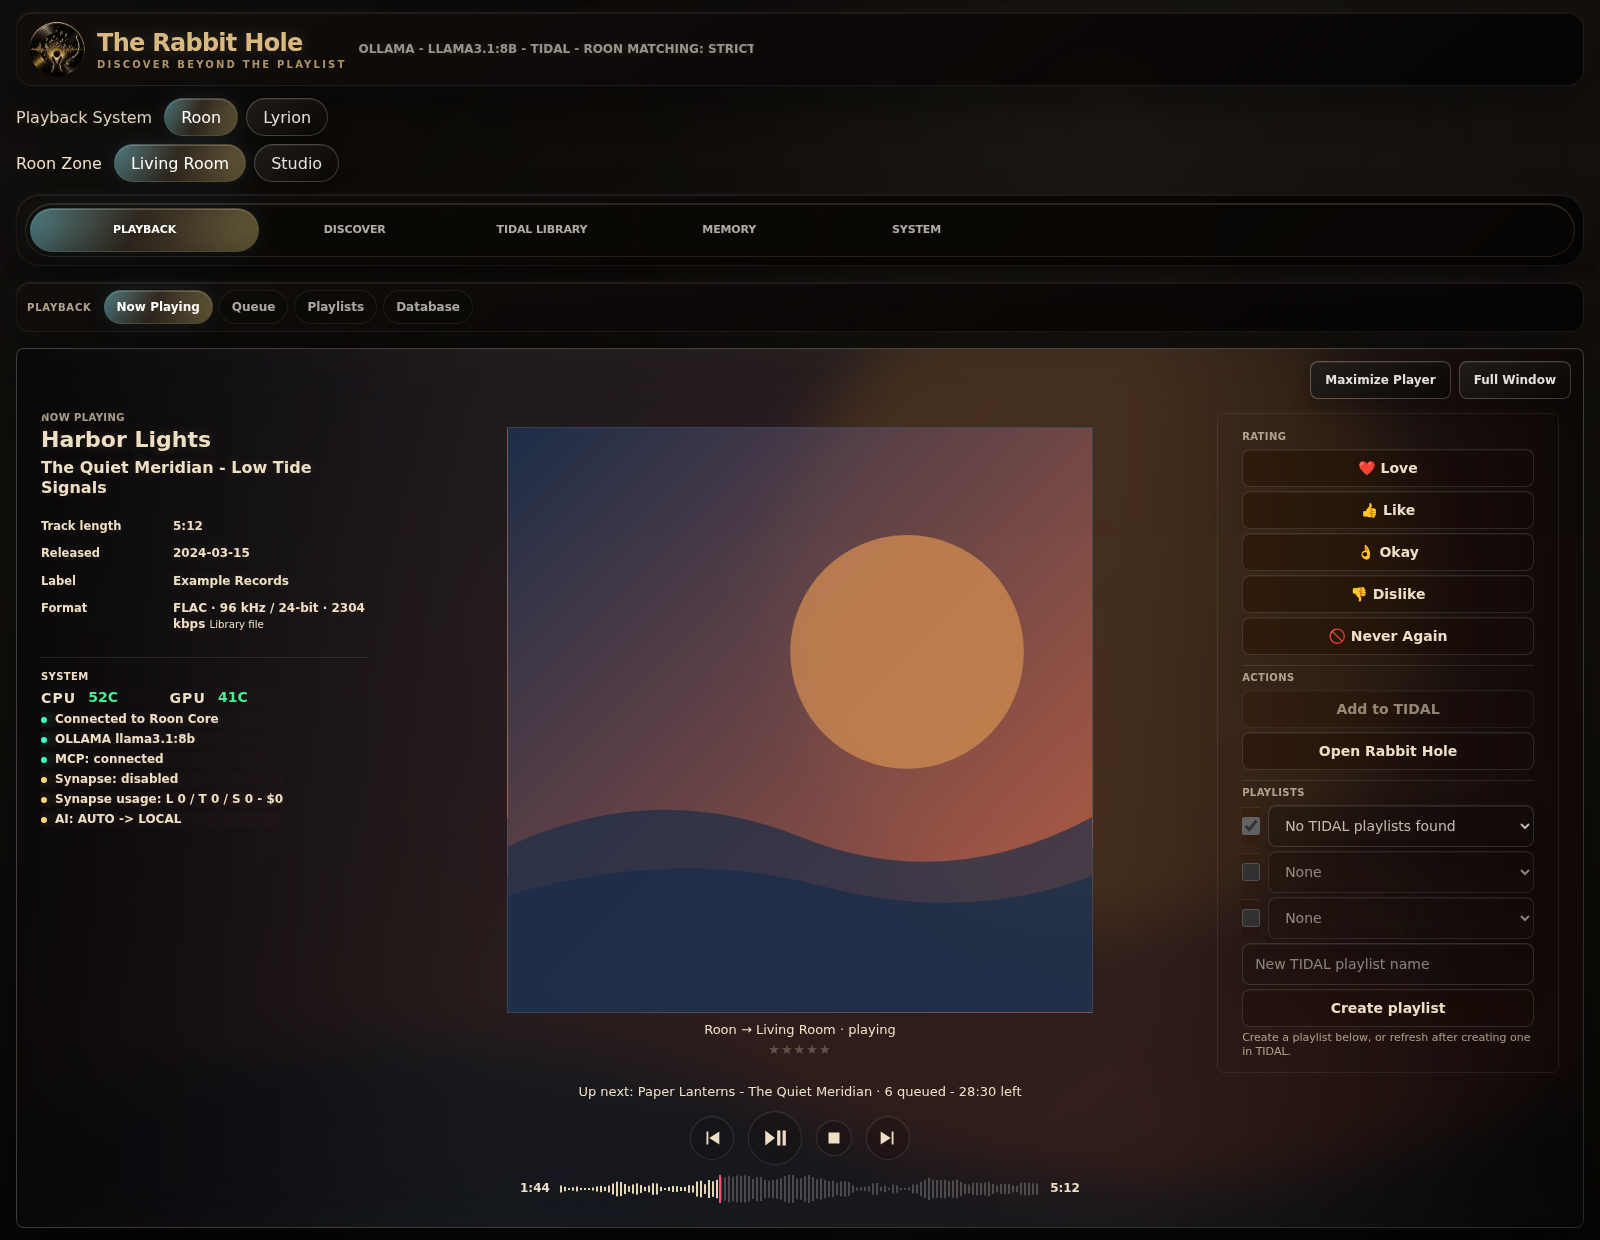
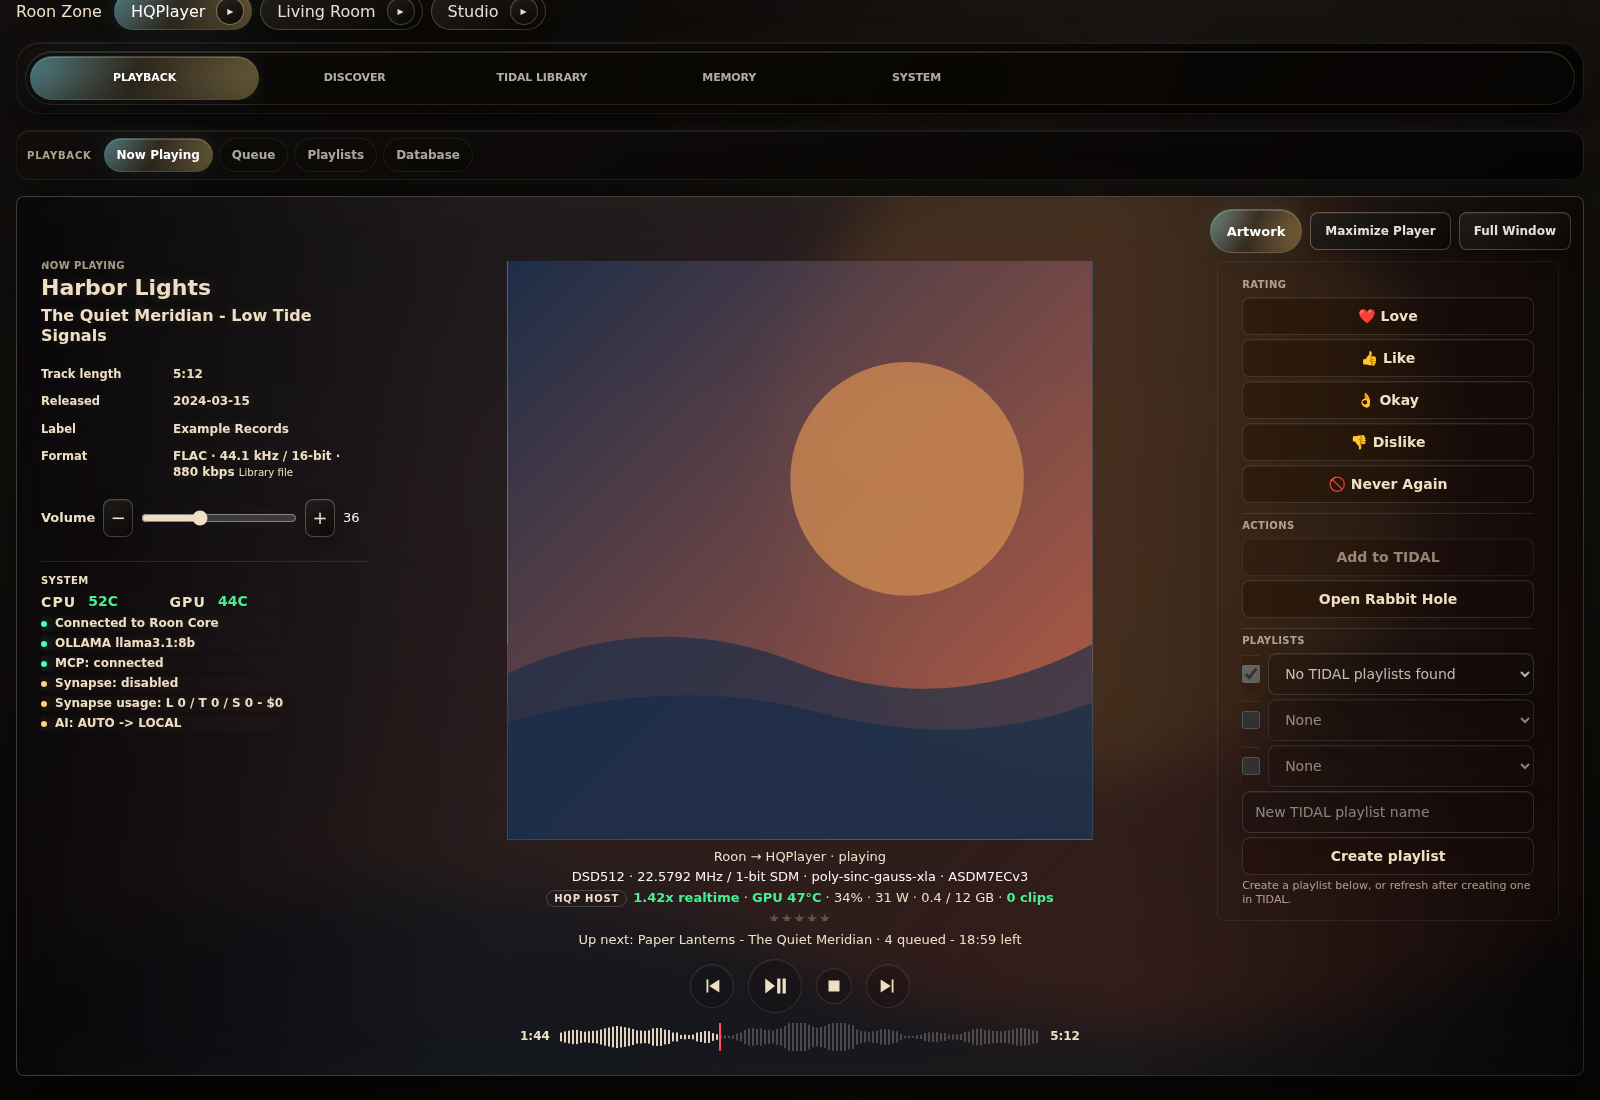
docs: add a feature tour of the fork with fake-data screenshots
docs/FEATURES.md walks through the Playback System row, Now Playing,
the transport under Up next, the HQPlayer and HQP host lines (healthy,
under load, agent unreachable), the player card, Lyrion Home and
Sources, phone layout and the seven themes. The README links it, lists
the HQP host line among the fork's changes and adds both guides.

The Roon and Lyrion Now Playing screenshots are refreshed to show the
host line. Every screenshot is rendered from made-up tracks, rooms and
documentation addresses.

diff --git a/docs/FEATURES.md b/docs/FEATURES.md
@@ -1,0 +1,151 @@
+# What this fork adds: a tour
+
+A walk through the interface changes this fork makes on top of
+[darthspaders/RoonAI](https://github.com/darthspaders/RoonAI). Every screenshot
+uses made-up tracks, rooms, players and addresses. The short list is in the
+[README](../README.md#what-this-fork-changes); the full history is in the
+commits after upstream `f0b1e81`.
+
+- [Playback System row](#playback-system-row)
+- [Now Playing](#now-playing)
+- [Transport, Up next and the seek bar](#transport-up-next-and-the-seek-bar)
+- [HQPlayer and the HQP host line](#hqplayer-and-the-hqp-host-line)
+- [Player card](#player-card)
+- [Lyrion](#lyrion)
+- [On a phone](#on-a-phone)
+- [Themes](#themes)
+- [Changes you cannot see](#changes-you-cannot-see)
+
+## Playback System row
+
+![Playback System row: Roon and Lyrion pills with a Rouen link, an HQPlayer row with Web Interface and HQPTuner links, and a Roon Zone row with one pill per zone, each with a small play button](screenshots/playback-system-row.png)
+
+- **Roon / Lyrion** switches the whole page between the two players. The choice
+  is kept in the browser.
+- **Rouen**, **Web Interface** and **HQPTuner** are links, shown only when
+  `ROUEN_URL`, `HQPLAYER_WEB_URL` or `HQPTUNER_URL` is set (the HQPlayer web
+  interface is also found from the HQPlayerBridge plugin when Lyrion is in use).
+- **Roon Zone** lists every zone as a pill instead of a drop-down. The ▸ on a
+  pill opens that zone's [player card](#player-card).
+
+## Now Playing
+
+![Roon Now Playing: track details, volume and system status on the left, album art in the centre with the playback lines, Up next, transport buttons and a waveform seek bar below it, rating and playlist tools on the right](screenshots/roon-now-playing.png)
+
+Roon and Lyrion share one three-column layout:
+
+- **Left:** track length, release date, label and the source format (for
+  example `FLAC · 44.1 kHz / 16-bit · 880 kbps`, with where it came from), a
+  volume control, and a System block with CPU and GPU temperatures and the
+  connection state of Roon or Lyrion, the language model and MCP.
+- **Centre:** the album art, the playback chain under it (`Roon → HQPlayer ·
+  playing`), rating stars, Up next, the transport and the seek bar.
+- **Right:** rating buttons, actions and playlist tools.
+
+![Left column close up: track details, the volume slider with minus and plus buttons, and the System block with CPU 52C, GPU 44C and green and amber status dots](screenshots/system-panel.png)
+
+Temperature chips and the Visualizer toggle are hidden when they cannot work,
+instead of showing empty values.
+
+## Transport, Up next and the seek bar
+
+Under the art, on both players:
+
+- **Up next** names the next track, how many are queued and the time left.
+- **Round icon buttons** for back, play/pause, stop and next.
+- **A short seek bar.** When the track is a file in the Lyrion library (on
+  either player), it is drawn as the track's waveform, read from the file with
+  FFmpeg. Click or drag to seek; the red mark is the position.
+
+## HQPlayer and the HQP host line
+
+For a Roon zone that plays through HQPlayer (`ROON_HQPLAYER_ZONES`) or the
+Lyrion HQPlayerBridge player, the line under the playback chain shows what
+HQPlayer is doing: output rate, mode, filter and modulator.
+
+If the HQPlayer machine runs the optional
+[HQP host monitor](../integrations/hqp-host-monitor/README.md) and is listed in
+`HQP_HOST_MONITORS`, an **HQP host** line follows it:
+
+![HQP host line, healthy: 1.42x realtime and GPU 47°C in green, 34%, 31 W, 0.4 / 12 GB, and 0 clips in green](screenshots/hqp-host-line.png)
+
+| Part | From | Colour |
+|------|------|--------|
+| `1.42x realtime` | HQPlayer's processing speed, shown only while playing | green from 1.1x, amber below 1.1x, red below 1.0x |
+| `GPU 47°C` | the agent | green below 80 °C, amber from 80 °C, red from 90 °C |
+| `34%`, `31 W`, `0.4 / 12 GB` | the agent: load, power, memory in use / total | |
+| `0 clips` | HQPlayer's clip counter | green at 0, red above 0 |
+
+Working hard, close to the limit:
+
+![HQP host line under load: 1.04x realtime, GPU 83°C, 71%, 96 W and 3 clips, with the realtime and temperature highlighted as warnings and the clips as a fault](screenshots/hqp-host-line-warning.png)
+
+When the agent does not answer, the line says so in grey and keeps HQPlayer's
+own numbers. A missing value is left out, never shown as 0:
+
+![HQP host line with the agent unreachable: 1.42x realtime, a grey "HQP host: no data", and 0 clips](screenshots/hqp-host-line-nodata.png)
+
+Zones and players that do not use a monitored HQPlayer show no host line at all.
+When HQPlayer is stopped or paused, the realtime part is left out rather than
+shown as a red 0.00x.
+
+## Player card
+
+The ▸ on any Roon zone or Lyrion player pill, or a tap on the album art, opens
+that room's card: art, track, seek bar, back / play-pause / stop / next, and
+volume with mute. It controls that room without switching the page to it.
+
+<p>
+  <img src="screenshots/player-card-desktop.png" alt="Player card on a desktop: a centred card over the blurred page with album art, the room, track, seek bar, transport buttons and close button" width="560">
+  <img src="screenshots/player-card-phone.png" alt="Player card on a phone: full screen with album art, the room, track, seek bar, transport buttons and a volume row with mute" width="220">
+</p>
+
+## Lyrion
+
+Lyrion gets the same Now Playing as Roon, with what LMS knows about the file
+(genre, track number, ReplayGain, file size, date added) and the player and
+server under System:
+
+![Lyrion Now Playing: player pills, track and file details, the System block with the Lyrion server, player, address and repeat and shuffle state, album art with the HQPlayer and HQP host lines, Up next, transport and seek bar, and rating, TIDAL and SoundCloud tools on the right](screenshots/lyrion-now-playing.png)
+
+A **Home** tab with new music, favorites and explore tiles:
+
+![Lyrion Home tab: a New Music row of six album tiles, a Favorites row of four, and Explore tiles for Albums, Artists, New Music and Favorites](screenshots/lyrion-home.png)
+
+**Sources & Discovery** with foldable rows and the setup links moved into a
+Setup menu:
+
+![Lyrion Sources and Discovery: a folded Setup menu, a row of source pills, a search box with Search source and Search all sources, and Back and Browse source buttons](screenshots/lyrion-sources.png)
+
+Lyrion tracks can be rated like Roon's, streamed tracks show their cover art,
+and one unanswered Roon call no longer freezes the Lyrion controls.
+
+## On a phone
+
+The columns stack: details and System first, then the art and everything under
+it.
+
+<p>
+  <img src="screenshots/phone-roon.png" alt="Roon Now Playing on a phone: Maximize Player, Full Window and Artwork buttons, then track details, volume and System, then the album art" width="260">
+  <img src="screenshots/phone-lyrion.png" alt="Lyrion Now Playing on a phone: a Fullscreen button, track and file details, volume and System, then the album art" width="260">
+</p>
+
+## Themes
+
+Seven themes, picked in **Settings**. `UI_THEME` sets the default for new
+browsers.
+
+![The same Roon Now Playing page in seven themes: Obsidian & Copper, Original, Roon Dark, Roon Light, Dark Orange, Graphite & Brass and Miyara](screenshots/themes.png)
+
+Each theme is a JSON file in `src/themes/`;
+[Colour themes](../README.md#colour-themes) in the README explains how to add one.
+
+## Changes you cannot see
+
+- **Discovery:** artist-led TIDAL searches are checked against the planned
+  artists, results that only echo a bare descriptor and karaoke backing tracks
+  are rejected, and Last.fm relatives of the searched artist are kept.
+- **Lyrion and HQPlayer:** HQPlayer is found from the bridge plugin's address,
+  not a loopback player address.
+- **Unraid:** a published image (`ghcr.io/guyp2k/rabbithole-fork`) and an Unraid
+  template; see [Install on Unraid](../README.md#install-on-unraid).

diff --git a/README.md b/README.md
@@ -27,7 +27,8 @@ The player card, opened from the ▸ on a room's pill or by tapping the album ar
   <img src="docs/screenshots/player-card-phone.png" alt="Player card on a phone: full screen with album art, the room, track, seek bar, transport buttons and a volume row with mute" width="220">
 </p>
 
-The screenshots use made-up tracks, rooms and addresses.
+The screenshots use made-up tracks, rooms and addresses. For a section-by-section
+walk through the changes, with more screenshots, see the [feature tour](docs/FEATURES.md).
 
 ## What this fork changes
 
@@ -43,6 +44,10 @@ offered upstream as pull requests.
   rating stars, system temperatures, and a waveform seek bar on both players
   (drawn from the LMS library file with FFmpeg). Under the art, an Up next line
   sits above round back, play/pause, stop and next buttons and a short seek bar.
+- **HQP host line:** for an HQPlayer machine that runs the optional
+  [HQP host monitor](integrations/hqp-host-monitor/README.md), a line under the
+  HQPlayer line with realtime factor, GPU temperature, load, power and memory,
+  and clips, coloured by limits (`HQP_HOST_MONITORS`).
 - **Playback System row:** Roon zones as pills, plus optional links to the
   HQPlayer web interface, HQPTuner and Rouen.
 - **Player card:** a ▸ on every Roon zone and Lyrion player pill (or a tap on
@@ -250,6 +255,8 @@ Recoloured artwork lives in `public/themes/<id>/`; after adding a theme or chang
 
 ## Guides
 
+- [Feature tour of this fork](docs/FEATURES.md)
+- [HQP host monitor](integrations/hqp-host-monitor/README.md)
 - [Lyrion players, plugin playback and HQPlayerBridge](docs/lyrion.md)
 - [Linux, Docker and Unraid](docs/linux-docker.md)
 - [SoundCloud playlist connection](LYRION_SOUNDCLOUD.md)
